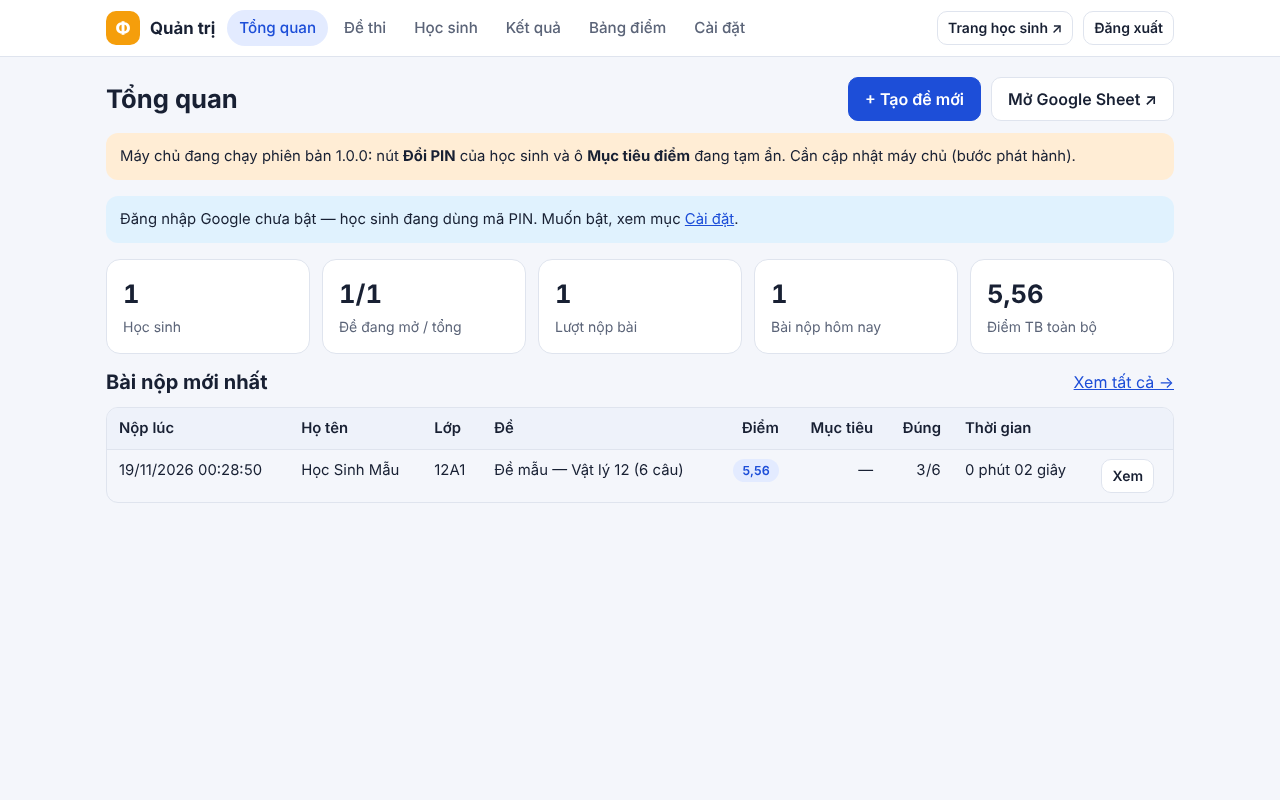
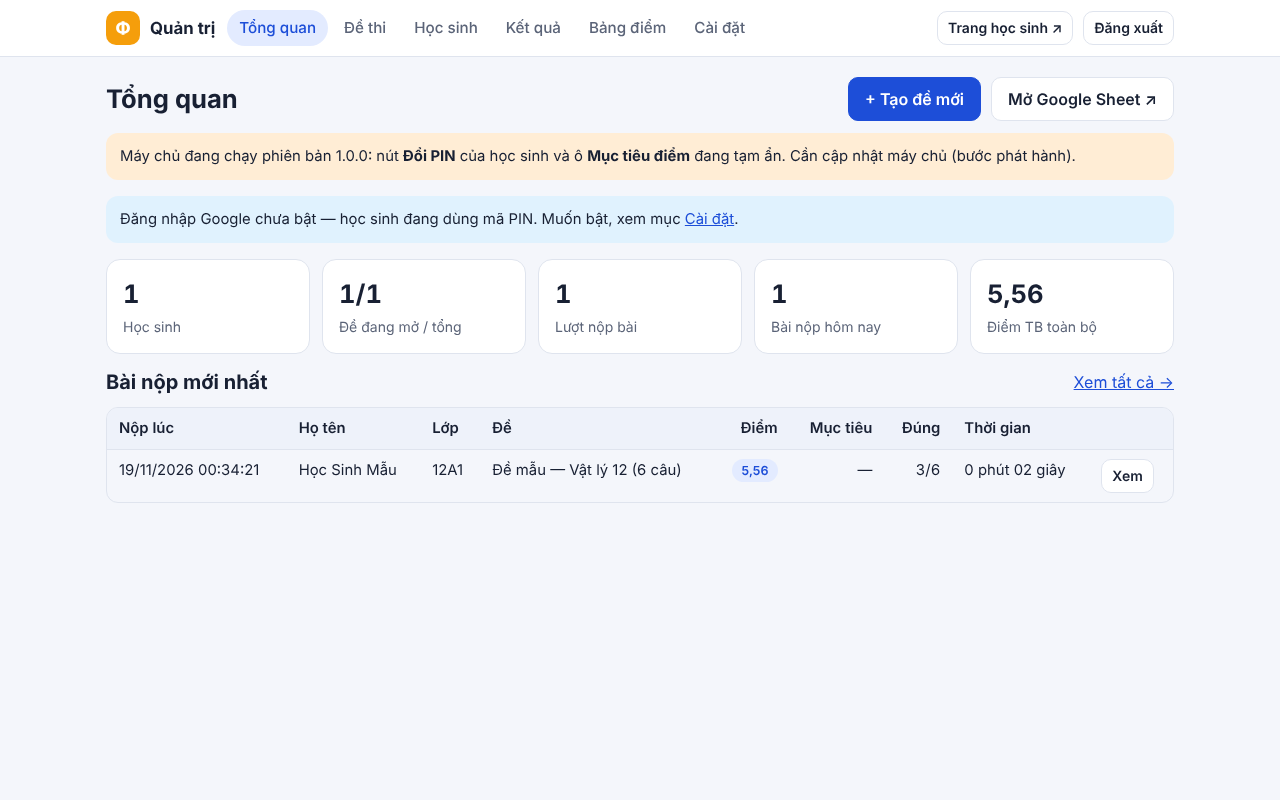
Pha 1: kiểm thử vòng 2 (mọi TC kiểm được đều ĐẠT), ảnh chụp mới
Claude-Session: https://claude.ai/code/session_01BBCuQ1fvwj8xATM9a5iSYg

diff --git a/docs/bao-cao/pha-1-kiem-thu.md b/docs/bao-cao/pha-1-kiem-thu.md
@@ -94,3 +94,60 @@ Ghi chú thêm (không phải lỗi):
 
 ## Kết luận
 Mọi TC bắt buộc kiểm được tại đây đều **ĐẠT**. TC-1.15a và TC-1.15c cần giáo viên đo trên máy chủ thật (pha con 6b). Nên sửa K-1 (một dòng CSS) trước khi gộp. K-2 và K-3 không chặn pha.
+
+## Vòng 2 (sau commit `b4dda85`)
+
+Ngày 18/11/2026. Đã chạy lại **toàn bộ** kiểm thử trên `b4dda85`. Không sửa hạ tầng test.
+`tests/pha1-kiem-thu.e2e.js` có thêm 2 kiểm tra hồi quy:
+- **K-1**: khung bao của viên "Đang cập nhật…" ở khổ 390 px không được chạm bất kỳ nút, liên kết hay `h1` nào.
+- **K-3**: giáo viên gặp AUTH ở tab không có đệm (`#/hoc-sinh`) thì phải hiện ô `#pw`.
+
+Lần chạy: `LATENCY_MS=1500`. Máy chủ mới ở cổng 8790, `SERVER_COMPAT=1.0.0` ở cổng 8791. `tests/e2e.js` chạy ở cổng 8792 (máy chủ mới) và 8793 (1.0.0). `pha1-r1.e2e.js` chạy ở cổng 8792 với một dev-server mới. Mọi dev-server đã tắt khi xong.
+
+### Bảng TC (vòng 2)
+| Mã | Kết quả | Bằng chứng vòng 2 |
+|---|---|---|
+| TC-1.0 | **ĐẠT** | Máy chủ mới: nút Đổi PIN và ô mục tiêu điểm hiển thị. Máy chủ 1.0.0: cả hai bị ẩn, kể cả khi chưa có `ld_pub` |
+| TC-1.1 | **ĐẠT** | HS: 1,2 / 6,7 / 1,9 / 1,3 ms. GV: 1,8 / 1,9 / 2,2 ms. Máy chủ 1.0.0: 1,2–6,5 ms |
+| TC-1.2 | **ĐẠT** | Khung xương sau 1,1–1,8 ms; không có khung trống. Tải lại trang: khung xương ở 48 ms |
+| TC-1.3 | **ĐẠT** | `{bootstrap:1}` (hiện sau 66 ms). Khi không có `ld_pub`: `{publicConfig:1, bootstrap:1}` |
+| TC-1.4 | **ĐẠT** | `e2e.js` chạy với `SERVER_COMPAT=1.0.0` đạt. Không có toast đỏ, không có lỗi console, không hiện "Không có chức năng" |
+| TC-1.5 → 1.8, 1.12, 1.13 | **ĐẠT** | `pha1-kiem-thu.test.js` đạt 29/29 |
+| TC-1.9 / 1.9b | **ĐẠT** | Như vòng 1. GV gặp AUTH: kho lưu sạch và về màn đăng nhập |
+| TC-1.10 | **ĐẠT** | Điểm mới hiện sau 1 230 ms, không tải lại trang |
+| TC-1.11 | **ĐẠT** | 0 khóa chứa `dapAn`/`loiGiai`, ở cả hai chế độ |
+| TC-1.14 | **ĐẠT** | HS 4 màn và GV 3 tab vẫn hiện, kèm toast "Mất kết nối…" |
+| TC-1.15a / 1.15c | **KHÔNG KIỂM ĐƯỢC TẠI ĐÂY (cần giáo viên)** | — |
+| TC-1.15b | **ĐẠT** | Số lần đọc Sheet: 68 → 5 |
+| TC-1.16 | **ĐẠT** | Xem bảng test cũ bên dưới |
+
+### Lỗi vòng 1
+| Mã | Vòng 2 | Bằng chứng |
+|---|---|---|
+| K-1 | **Đã hết** | Viên chỉ báo đã chuyển xuống góc dưới bên trái và không che nút nào (kiểm tra tự động K-1 đạt; ảnh `02-dang-cap-nhat.png`). Còn một điểm thẩm mỹ rất nhẹ, không chặn pha: viên che một phần ô bảng nằm sát đáy màn hình trong ~1 s; khi ngoại tuyến, toast "Mất kết nối" đè lên viên (ảnh 05) |
+| K-3 | **Đã hết** | Token sai chữ ký ở `#/hoc-sinh` → về ngay màn đăng nhập (`#pw`); `ld_c_*` và `ld_lastResult` đã xóa |
+| K-2 | Không đổi (nhận xét) | Máy chủ 1.0.0, chưa có `ld_pub`: thứ tự gọi vẫn là `publicConfig, bootstrap, listExams, myResults` |
+
+### Test cũ (vòng 2)
+| Lệnh | Kết quả |
+|---|---|
+| `node tests/backend.test.js` | 13/13 đạt |
+| `node tests/importer.test.js` | đạt |
+| `node tests/cache.test.js` | 17/17 đạt |
+| `node tests/common-cache.test.js` | 5/5 đạt |
+| `PORT=8792 node tests/e2e.js` (máy chủ mới) | đạt |
+| `PORT=8793 SERVER_COMPAT=1.0.0 node tests/e2e.js` | đạt |
+| `PORT=8792 ADMIN_PW=… node tests/pha1-r1.e2e.js` | đạt |
+| `node tests/pha1-kiem-thu.test.js` | 29/29 đạt |
+| `tests/pha1-kiem-thu.e2e.js all` (LATENCY 1500) | 12/12 nhóm đạt (10 nhóm TC + K-1 + K-3) |
+
+Lưu ý về `pha1-r1.e2e.js`:
+- Test này cần `ADMIN_PW` và một dev-server **không có độ trễ**.
+- Chạy với `LATENCY_MS=1500` thì hết giờ chờ ở `waitForSelector`. Đây là giới hạn của test, không phải lỗi tính năng.
+
+### Ảnh
+Đã chụp lại đủ 8 ảnh trong `docs/bao-cao/anh/pha-1/` và xem từng ảnh. Trong đó có 4 ảnh người làm đã ghi đè.
+- Ảnh 01: hai tab "Trang chủ" và "Thống kê" cùng được tô. Lý do là chuột của Playwright vẫn nằm trên "Trang chủ" sau cú bấm trước (trạng thái hover), không phải lỗi.
+
+### Kết luận vòng 2
+Mọi TC kiểm được tại đây **ĐẠT**; K-1 và K-3 đã được sửa. Còn 2 TC cần giáo viên đo trên máy chủ thật (TC-1.15a, TC-1.15c).
